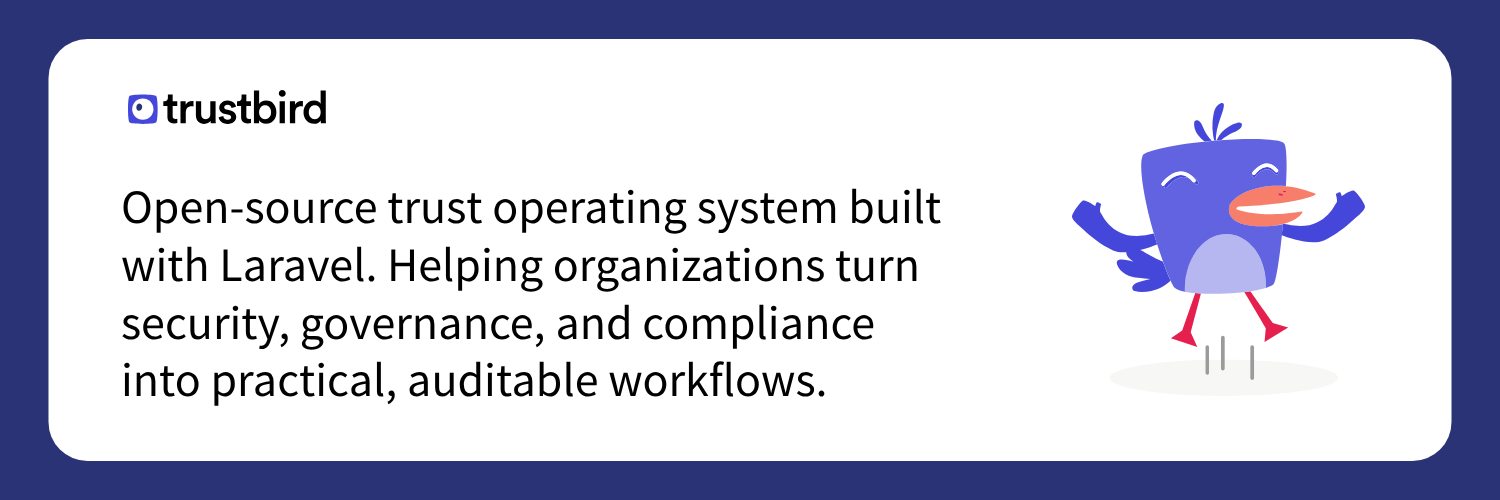
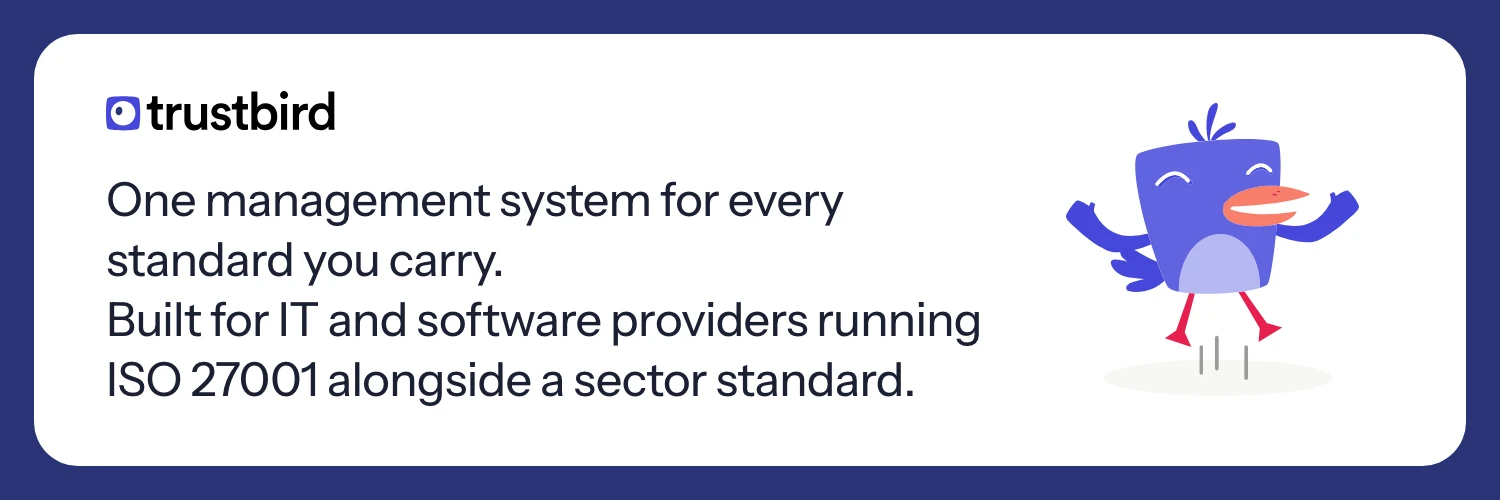
Herschrijf de organisatiepagina naar het SaaS-verhaal (PUB-017)

diff --git a/profile/README.md b/profile/README.md
@@ -1,86 +1,39 @@
 # Trustbird
 
 <p align="center">
-  <img src="https://github.com/Trustbird/.github/blob/main/profile/banner.webp" alt="Trustbird" style="width: 100%; max-width: 800px;">
+  <img src="https://raw.githubusercontent.com/Trustbird/.github/main/profile/banner.webp" alt="Trustbird" width="800">
 </p>
 
-<p align="center">
-  <strong>The Open Trust Operating System</strong>
-</p>
+**One management system. For every standard you carry.**
 
-<p align="center">
-  Open-source compliance, governance, and security management built with Laravel.
-</p>
+Trustbird is an integrated management system, delivered as software as a service. One place where an organization sets up, maintains and evidences its information security, quality and compliance.
 
-## Why Trustbird?
+## Who it is for
 
-Most compliance platforms start with frameworks, controls, and audits.
+IT and software providers that run ISO 27001 and need a sector standard alongside it.
 
-Trustbird starts with your organization.
+ISO 27001:2022 is the first requirement set and NEN 7510 is the second. GDPR, NIS2 and ISO 9001 are in view after that.
 
-Instead of forcing teams to learn compliance jargon, Trustbird helps organizations answer simple business questions about people, processes, systems, suppliers, and risks. From those conversations, Trustbird builds an auditable foundation of policies, controls, evidence, and governance.
+## How it works
 
-Our goal is simple:
+**Business language, not standard language.** You answer questions about your own organization. Who decides on access to customer data, which suppliers process it, what happens when something goes wrong. Trustbird maps those answers onto the structure a standard expects. Clause and control numbers appear where they are needed, such as in the Statement of Applicability and in an audit export, and nowhere else.
 
-> Build an ISMS without feeling like you're building an ISMS.
+**One core, several standards.** The product follows the shared Annex SL structure that ISO 27001, NEN 7510 and ISO 9001 have in common. That core is built once and reused for every standard after it, so adding a standard is mostly editorial work.
 
-## What we're building
+**AI that assists and never decides.** Trustbird asks the questions, drafts policies and procedures, and gives an opinion on whether a piece of evidence covers a requirement. Generated content stays a draft until a named owner adopts it, recorded with person, date and version. An AI opinion has its own status and never sets a requirement to met by itself. Every export to an auditor states which assessments came from AI and which were established by a person.
 
-Trustbird is an open-core platform that helps organizations:
+Trustbird does not replace an auditor, does not give legal advice and does not guarantee certification.
 
-- Build and maintain an Information Security Management System (ISMS)
-- Prepare for frameworks such as ISO 27001, NIS2, GDPR, DORA and future standards
-- Manage policies, risks, measures, tasks and evidence
-- Generate audit-ready documentation
-- Automate repetitive compliance work using AI
-- Stay in control of their own data through self-hosting
+## How it runs
 
-Trustbird is built with:
+- One tenant per customer.
+- Hosted in the EU.
+- An audit trail on every action in the application.
 
-- Laravel
-- Filament
-- Livewire
-- Alpine.js
+## Status
 
-## Open Source First
+Trustbird is in development with two design partners. The repositories in this organization are private.
 
-We believe trust starts with transparency.
+Read what the product does, what it deliberately does not do, and when it opens up at [trustbird.com](https://trustbird.com), where you can also sign up to be notified.
 
-The Trustbird Community Edition is fully self-hostable and designed to be useful on its own. We want developers, consultants, security professionals, MSPs, and organizations to collaborate on a shared ecosystem for workable compliance.
-
-Our mission is not to lock organizations into another black-box compliance platform.
-
-Our mission is to make governance, security, and compliance understandable, accessible, and auditable for everyone.
-
-## Contributing
-
-We welcome contributions from developers, security professionals, auditors, consultants, technical writers, and community members.
-
-Whether you're fixing a typo, building a connector, improving documentation, or contributing new ideas, your help is appreciated.
-
-Visit our contribution guides to get started.
-
-## Community
-
-- Website: https://trustbird.com
-- Open Source: https://open.trustbird.com
-- Documentation: https://open.trustbird.com/docs
-- Discussions: https://open.trustbird.com/community
-
-## Vision
-
-We believe the future of compliance is:
-
-- Open
-- Explainable
-- AI-assisted
-- Self-hostable
-- Community-driven
-
-Trustbird exists to help organizations move from uncertainty to confidence, from scattered documents to structured governance, and from compliance projects to continuous trust.
-
----
-
-<p align="center">
-  <strong>From questions to confidence.</strong>
-</p>
+Questions: support@trustbird.com
